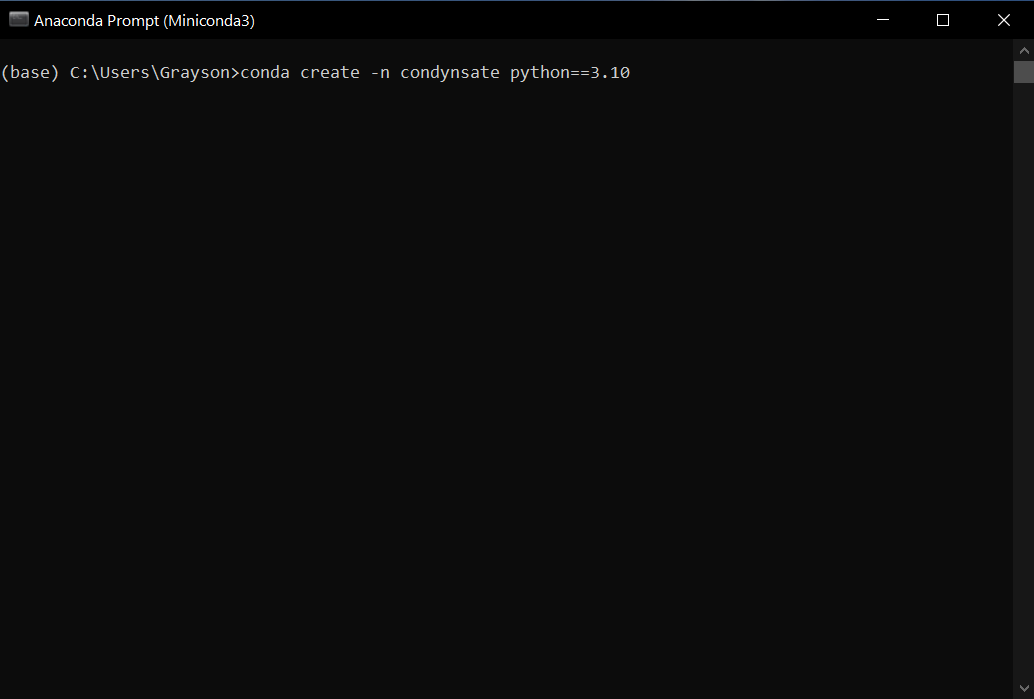
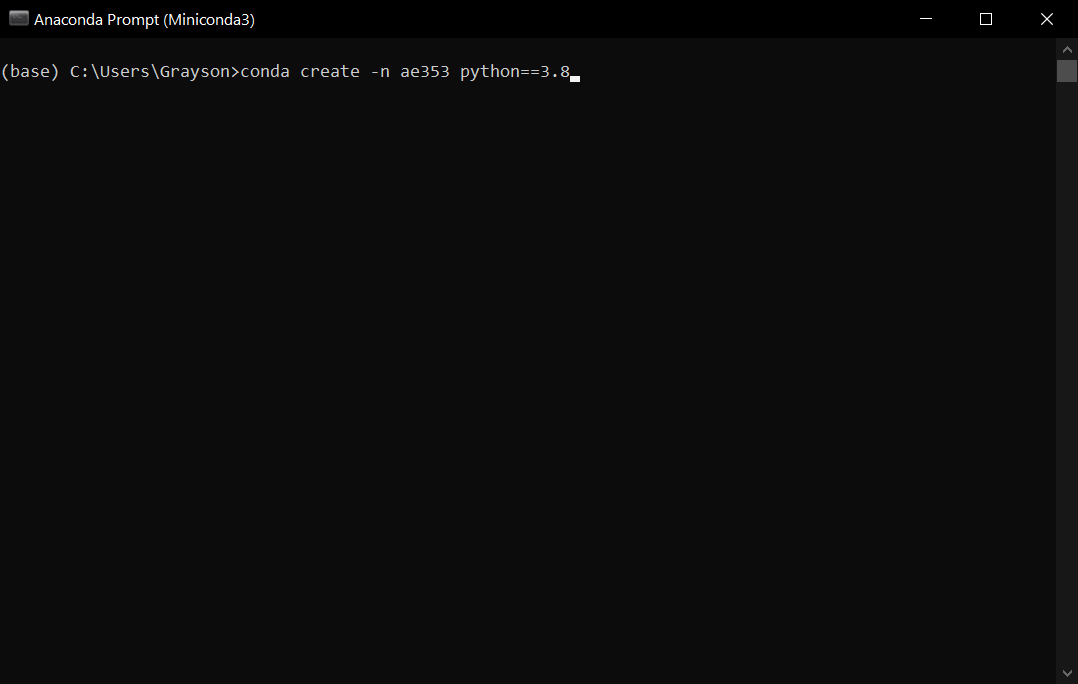
update readme for python==3.8

diff --git a/README.md b/README.md
@@ -99,7 +99,7 @@ Miniconda is now installed on your machine.
 To install condynsate in a Miniconda virtual environment, open **Anaconda Prompt (Miniconda3)** and type
 
 ```bash
-conda create -n condynsate python==3.10
+conda create -n condynsate python==3.8
 ```
 Press enter.
 
@@ -203,9 +203,9 @@ You should get a response that lists the version of Miniconda you just installed
 
 
 ## 2. Install condynsate in a Miniconda virtual environment
-To install condynsate in a Miniconda virtual environment, open the terminal and create a new virtual environment with python 3.10. To open the terminal press **ctrl+alt+t**. When the terminal is open, run the command:
+To install condynsate in a Miniconda virtual environment, open the terminal and create a new virtual environment with python 3.8. To open the terminal press **ctrl+alt+t**. When the terminal is open, run the command:
 ```bash
-conda create -n condynsate python==3.10
+conda create -n condynsate python==3.8
 ```
 
 When complete activate the new environment
@@ -274,7 +274,7 @@ You should get a response that lists the version of Miniconda you just installed
 
 ## 2. Install condynsate in a Miniconda virtual environment
 
-To install condynsate in a Miniconda virtual environment, open the terminal and create a new virtual environment with python 3.10. To open the terminal do one of the following:
+To install condynsate in a Miniconda virtual environment, open the terminal and create a new virtual environment with python 3.8. To open the terminal do one of the following:
 
 - Click the Launchpad icon ![img](https://help.apple.com/assets/63FFD63D71728623E706DB4F/63FFD63E71728623E706DB56/en_US/a1f94c9ca0de21571b88a8bf9aef36b8.png) in the Dock, type Terminal in the search field, then click Terminal.
 - In the Finder ![img](https://help.apple.com/assets/63FFD63D71728623E706DB4F/63FFD63E71728623E706DB56/en_US/058e4af8e726290f491044219d2eee73.png), open the /Applications/Utilities folder, then double-click Terminal.
@@ -282,7 +282,7 @@ To install condynsate in a Miniconda virtual environment, open the terminal and 
 When the terminal is open, run the command: 
 
 ```bash
-conda create -n condynsate python==3.10
+conda create -n condynsate python==3.8
 ```
 
 When complete activate the new environment
